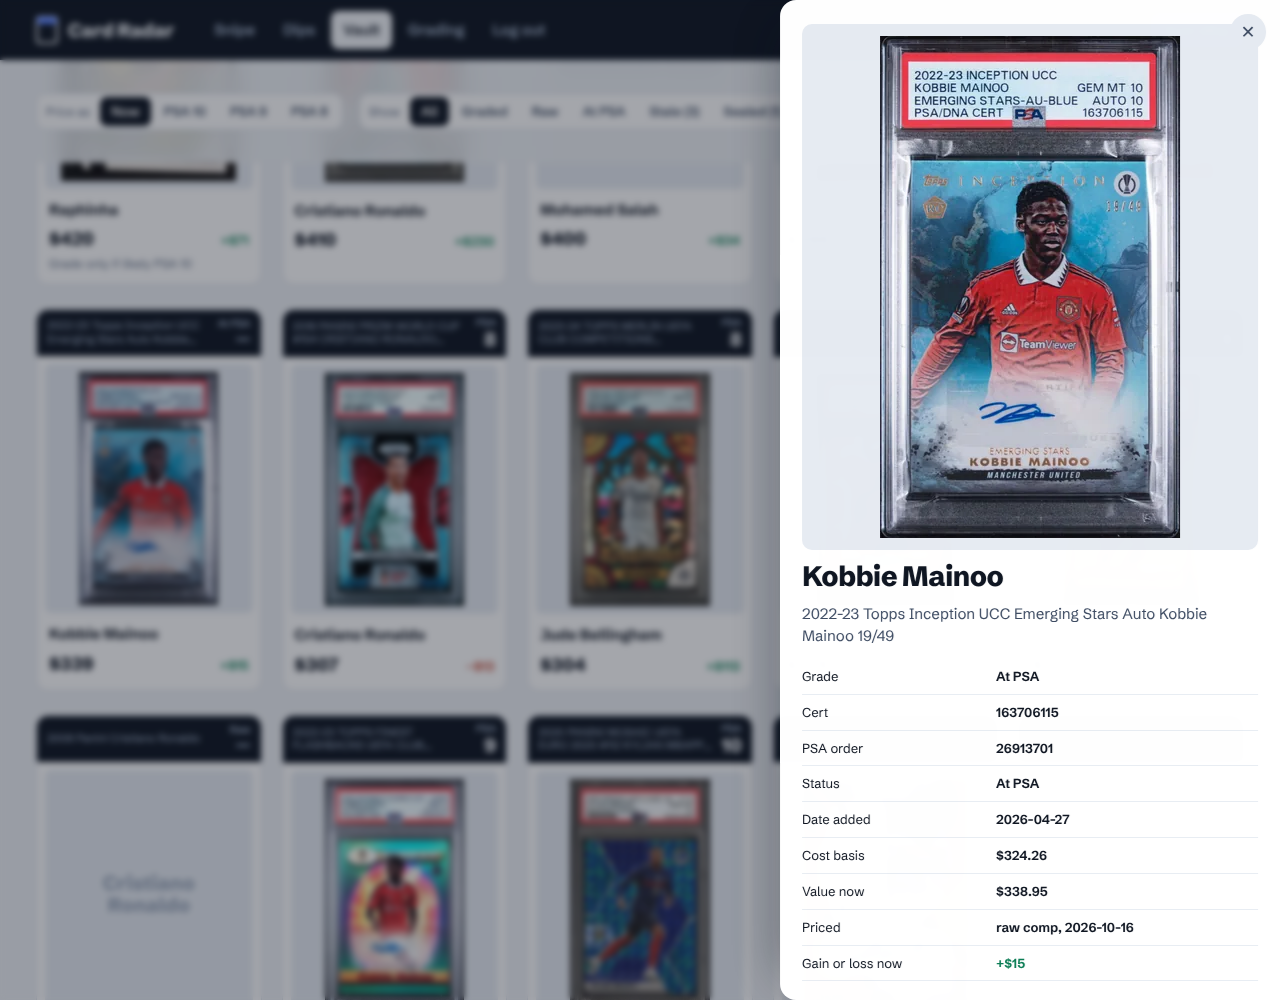
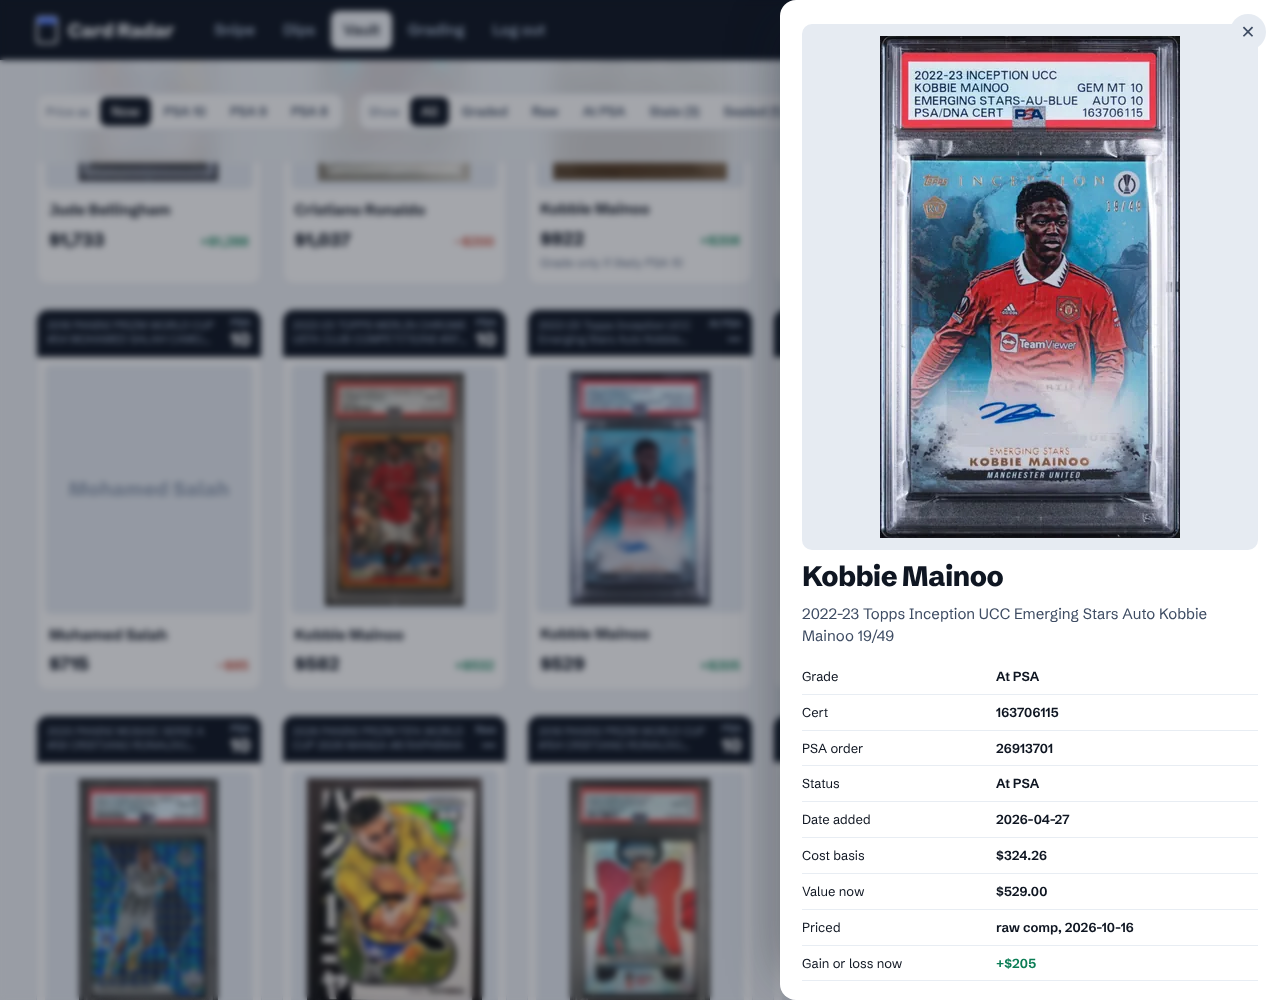
review(C5): test owner-wins tie rule independent of method; retake stale Vault drawer screenshot (Mainoo $529)
Claude-Session: https://claude.ai/code/session_018ZUH9edAfL4gQL3WiTpSKG

diff --git a/apps/dashboard/src/lib/vault-comp.test.ts b/apps/dashboard/src/lib/vault-comp.test.ts
@@ -33,6 +33,9 @@ test("owner values (owner_set, ratio_to_base) win same-date ties, in both row or
       c("raw", 338.95, "value_used", "workbook_import", "2026-10-20"),
     ];
     for (const r of [rows, [...rows].reverse()]) assert.equal(vaultComp(r, "raw")?.price, 400, source);
+    // The source decides, not the method: an owner row stored with the schema default method "median" still wins.
+    const medianRows = [c("raw", 400, "median", source, "2026-10-20"), c("raw", 529, "median", "cardladder_manual", "2026-10-20")];
+    for (const r of [medianRows, [...medianRows].reverse()]) assert.equal(vaultComp(r, "raw")?.price, 400, `${source} (median)`);
   }
 });
 
